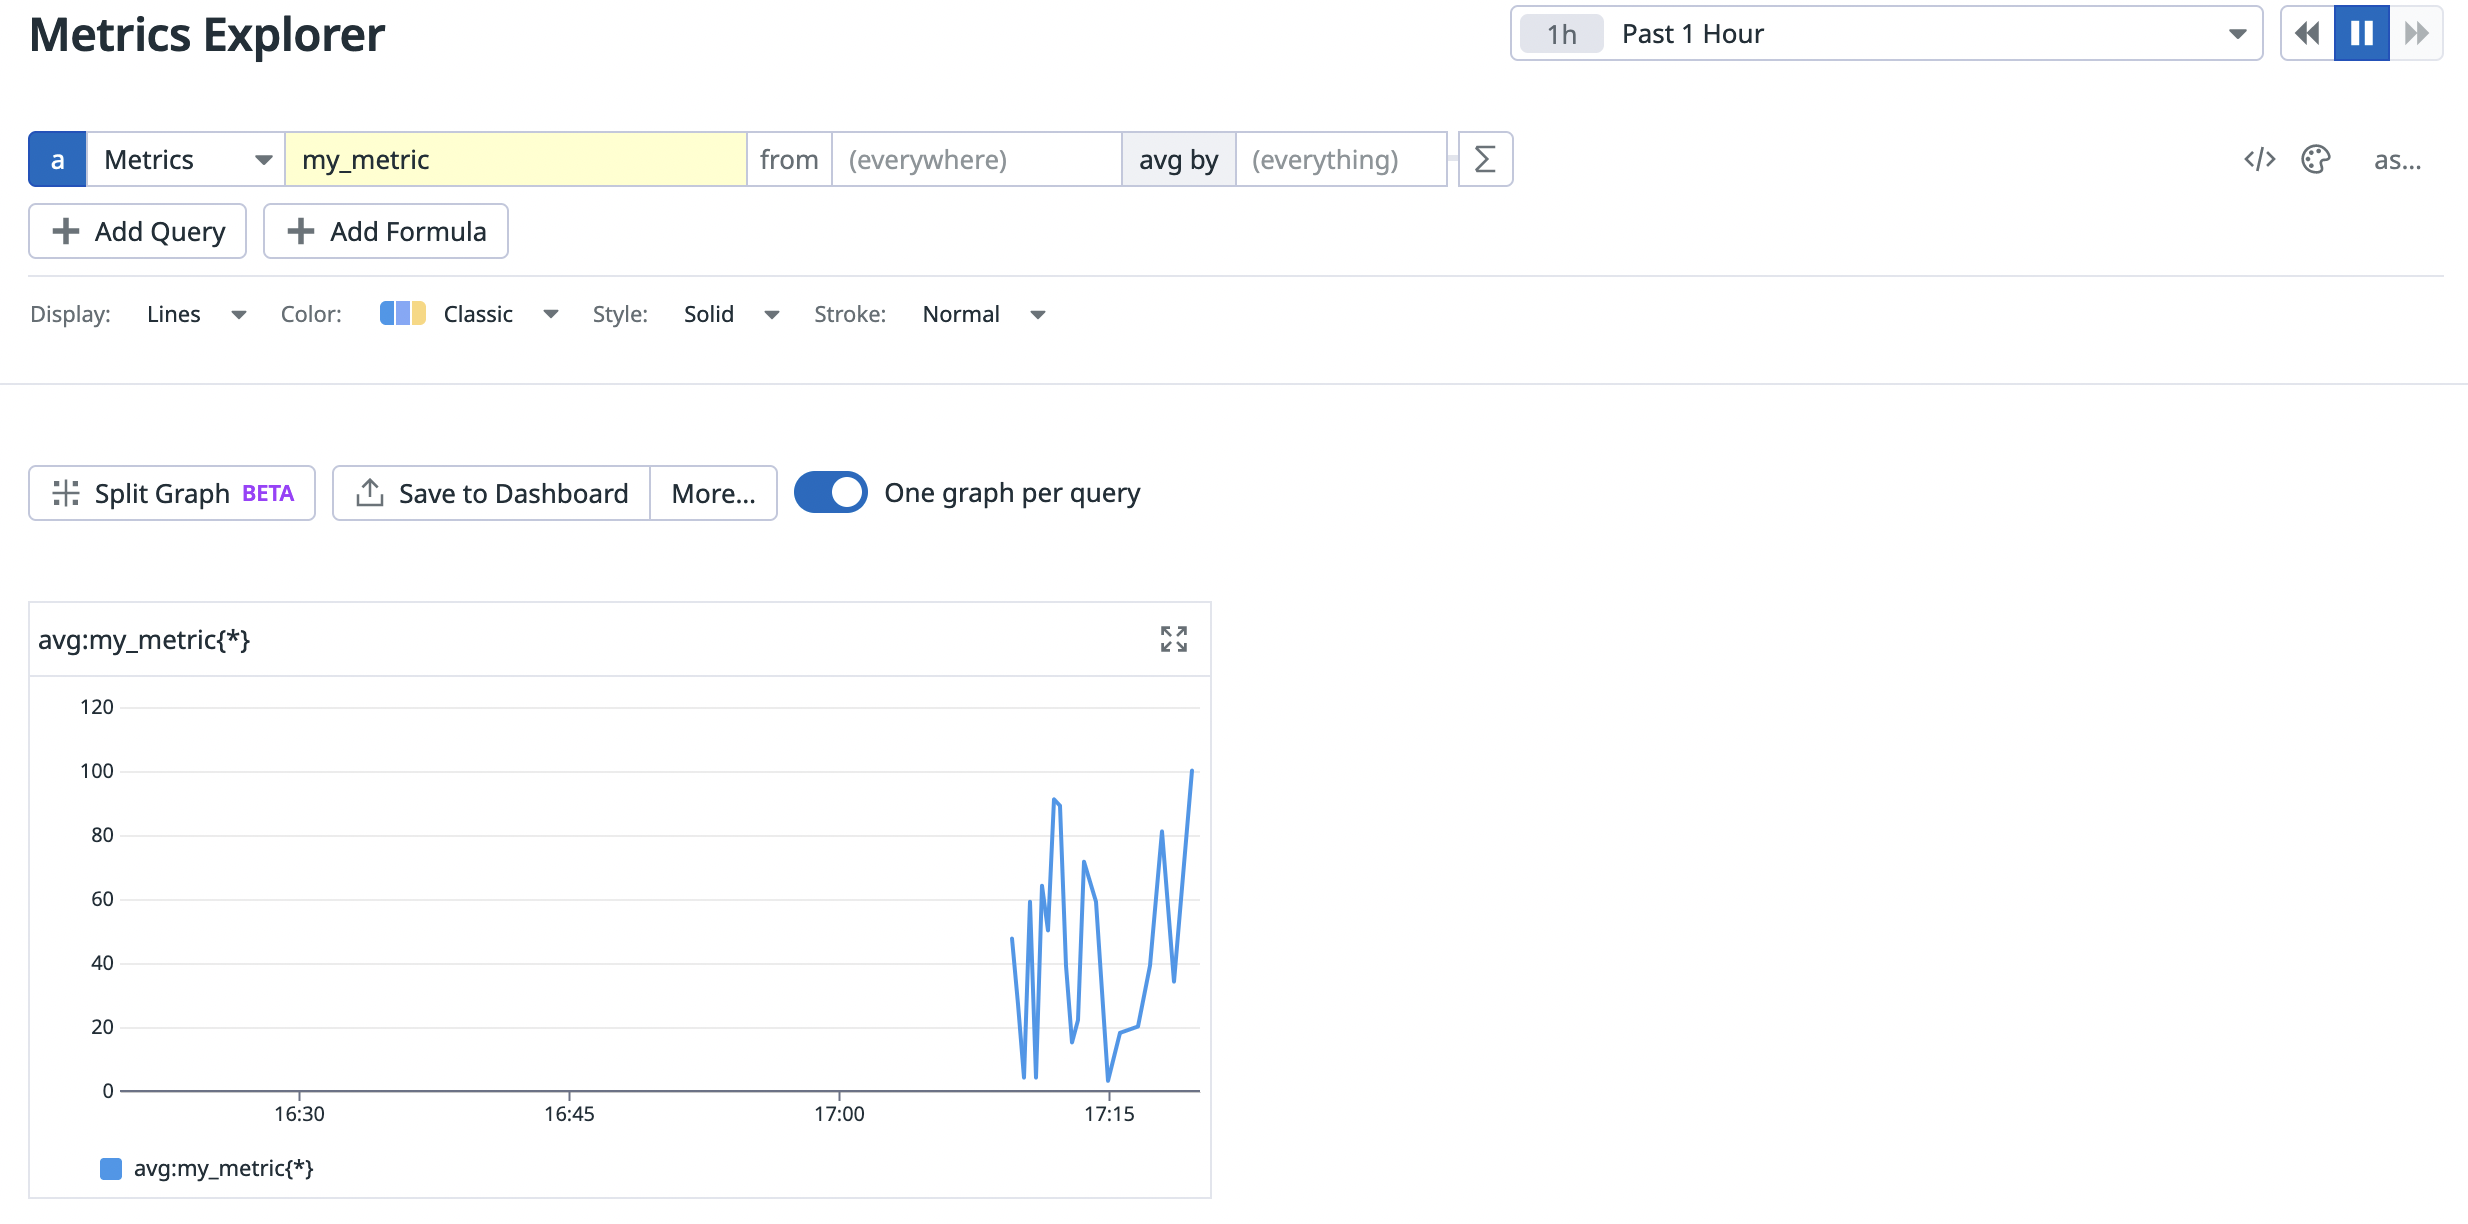
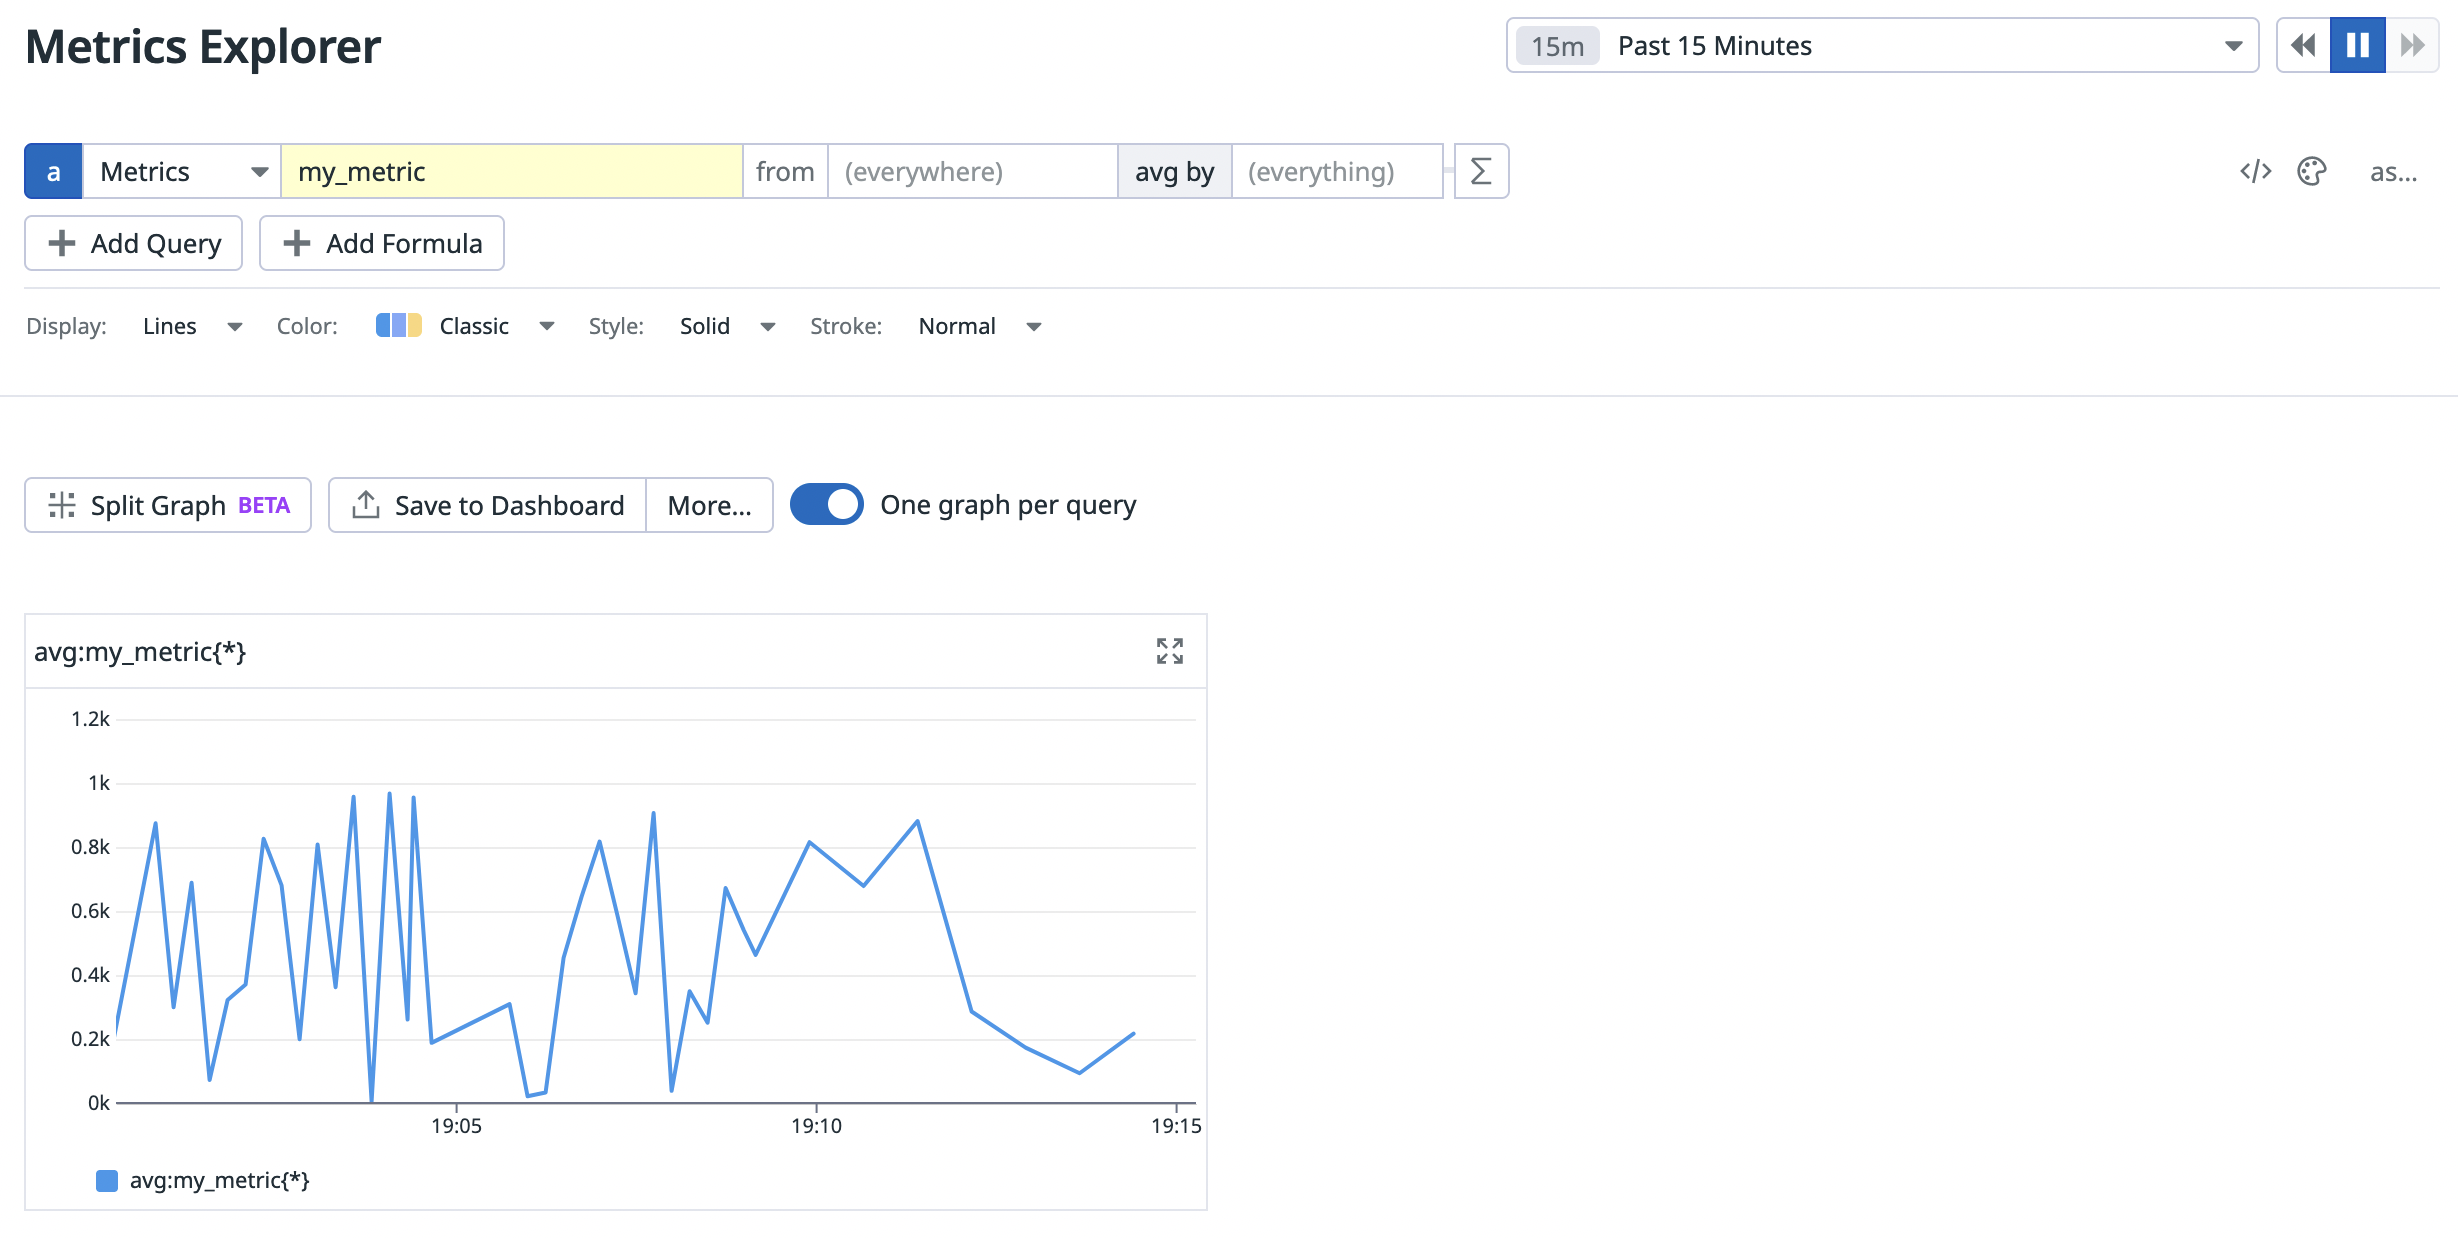
Fixed agent check python script

diff --git a/content/datadog.md b/content/datadog.md
@@ -76,7 +76,7 @@ __version__ = "1.0.0"
 
 class CustomMyMetricCheck(AgentCheck):
     def check(self, instance):
-        random_num = random.randint(1,100)
+        random_num = random.randint(0,1000)
         self.gauge('my_metric', random_num)
 ```
 
